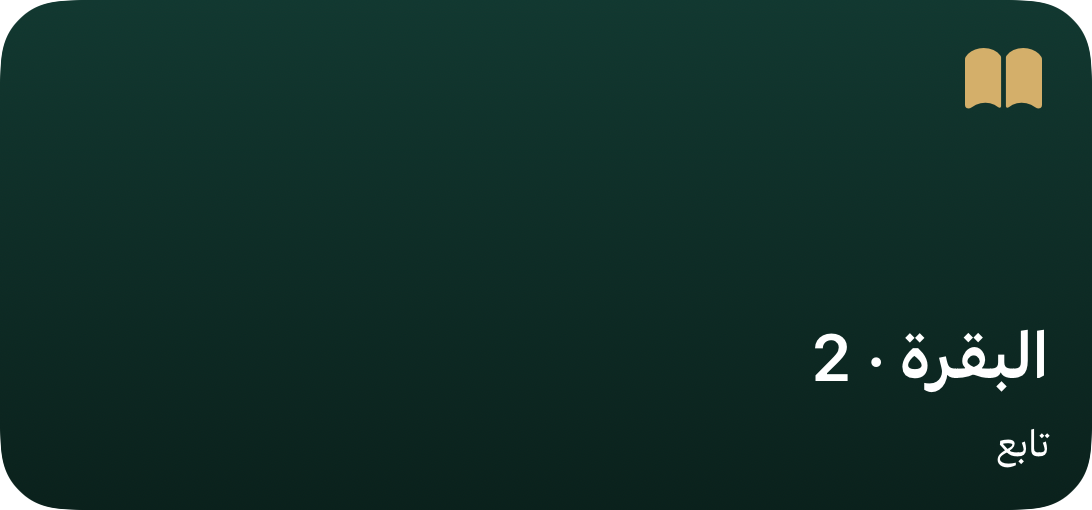
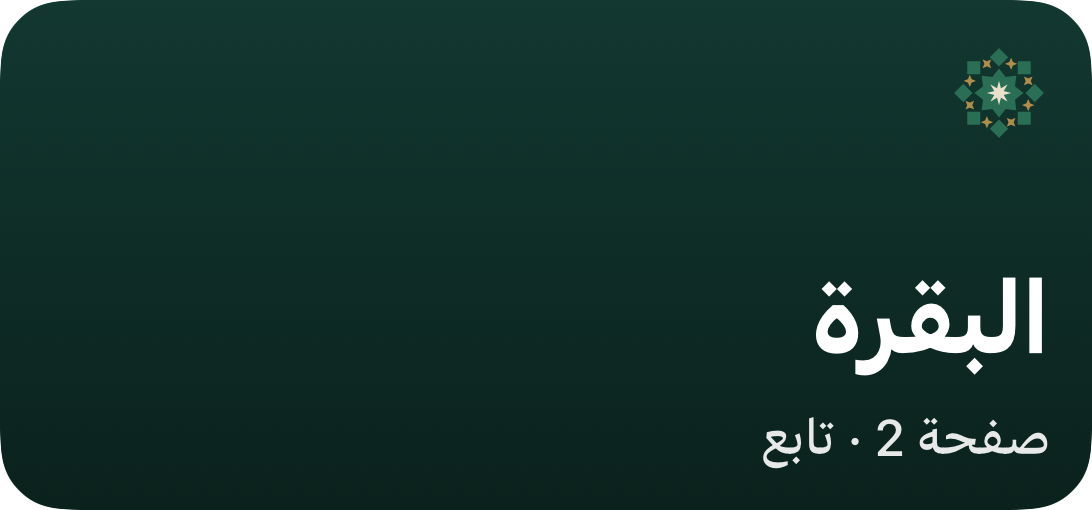
ويدجت المصحف: اسم السورة أكبر وأوضح، وزخرفة شعار التطبيق الصغيرة بدل أيقونة الكتاب (#3245)
Claude-Session: https://claude.ai/code/session_01RRn75XuQLnGpqkvSBJB31X

Changed region(s): [[0.7473, 0.5294, 0.9652, 0.7647], [0.685, 0.8235, 0.9652, 0.9118], [0.8718, 0.0882, 0.9652, 0.2647]]

diff --git a/artifacts/majalis/ios/App/PrayerWidget/SunnahWidgetLogoMark.swift b/artifacts/majalis/ios/App/PrayerWidget/SunnahWidgetLogoMark.swift
@@ -1,0 +1,45 @@
+import SwiftUI
+
+/// زخرفة شعار التطبيق (نفس زخرفة شاشة الدخولية، نسخة zellijDark الصغيرة) للويدجت.
+/// البيانات منسوخة من `SunnahNative/Intro/IntroLogoData.swift` (مولَّدة بـ gen-intro-shapes.py؛ الامتداد لا يستورد الحزمة).
+enum WidgetLogoData {
+    struct Layer { let color: UInt32; let polys: [[CGPoint]] }
+
+    static let layers: [Layer] = [
+        Layer(color: 0x2A6E55, polys: [[CGPoint(x: 100, y: 52), CGPoint(x: 113.01, y: 68.59), CGPoint(x: 133.94, y: 66.06), CGPoint(x: 131.41, y: 86.99), CGPoint(x: 148, y: 100), CGPoint(x: 131.41, y: 113.01), CGPoint(x: 133.94, y: 133.94), CGPoint(x: 113.01, y: 131.41), CGPoint(x: 100, y: 148), CGPoint(x: 86.99, y: 131.41), CGPoint(x: 66.06, y: 133.94), CGPoint(x: 68.59, y: 113.01), CGPoint(x: 52, y: 100), CGPoint(x: 68.59, y: 86.99), CGPoint(x: 66.06, y: 66.06), CGPoint(x: 86.99, y: 68.59)], [CGPoint(x: 188, y: 100), CGPoint(x: 170, y: 118), CGPoint(x: 152, y: 100), CGPoint(x: 170, y: 82)], [CGPoint(x: 162.23, y: 162.23), CGPoint(x: 136.77, y: 162.23), CGPoint(x: 136.77, y: 136.77), CGPoint(x: 162.23, y: 136.77)], [CGPoint(x: 100, y: 188), CGPoint(x: 82, y: 170), CGPoint(x: 100, y: 152), CGPoint(x: 118, y: 170)], [CGPoint(x: 37.77, y: 162.23), CGPoint(x: 37.77, y: 136.77), CGPoint(x: 63.23, y: 136.77), CGPoint(x: 63.23, y: 162.23)], [CGPoint(x: 12, y: 100), CGPoint(x: 30, y: 82), CGPoint(x: 48, y: 100), CGPoint(x: 30, y: 118)], [CGPoint(x: 37.77, y: 37.77), CGPoint(x: 63.23, y: 37.77), CGPoint(x: 63.23, y: 63.23), CGPoint(x: 37.77, y: 63.23)], [CGPoint(x: 100, y: 12), CGPoint(x: 118, y: 30), CGPoint(x: 100, y: 48), CGPoint(x: 82, y: 30)], [CGPoint(x: 162.23, y: 37.77), CGPoint(x: 162.23, y: 63.23), CGPoint(x: 136.77, y: 63.23), CGPoint(x: 136.77, y: 37.77)]]),
+        Layer(color: 0xB08D4A, polys: [[CGPoint(x: 157.28, y: 111.73), CGPoint(x: 160.82, y: 120.19), CGPoint(x: 169.28, y: 123.73), CGPoint(x: 160.82, y: 127.26), CGPoint(x: 157.28, y: 135.73), CGPoint(x: 153.74, y: 127.26), CGPoint(x: 145.28, y: 123.73), CGPoint(x: 153.74, y: 120.19)], [CGPoint(x: 132.21, y: 148.8), CGPoint(x: 128.73, y: 157.28), CGPoint(x: 132.21, y: 165.77), CGPoint(x: 123.73, y: 162.28), CGPoint(x: 115.24, y: 165.77), CGPoint(x: 118.73, y: 157.28), CGPoint(x: 115.24, y: 148.8), CGPoint(x: 123.73, y: 152.28)], [CGPoint(x: 88.27, y: 157.28), CGPoint(x: 79.81, y: 160.82), CGPoint(x: 76.27, y: 169.28), CGPoint(x: 72.74, y: 160.82), CGPoint(x: 64.27, y: 157.28), CGPoint(x: 72.74, y: 153.74), CGPoint(x: 76.27, y: 145.28), CGPoint(x: 79.81, y: 153.74)], [CGPoint(x: 51.2, y: 132.21), CGPoint(x: 42.72, y: 128.73), CGPoint(x: 34.23, y: 132.21), CGPoint(x: 37.72, y: 123.73), CGPoint(x: 34.23, y: 115.24), CGPoint(x: 42.72, y: 118.73), CGPoint(x: 51.2, y: 115.24), CGPoint(x: 47.72, y: 123.73)], [CGPoint(x: 42.72, y: 88.27), CGPoint(x: 39.18, y: 79.81), CGPoint(x: 30.72, y: 76.27), CGPoint(x: 39.18, y: 72.74), CGPoint(x: 42.72, y: 64.27), CGPoint(x: 46.26, y: 72.74), CGPoint(x: 54.72, y: 76.27), CGPoint(x: 46.26, y: 79.81)], [CGPoint(x: 67.79, y: 51.2), CGPoint(x: 71.27, y: 42.72), CGPoint(x: 67.79, y: 34.23), CGPoint(x: 76.27, y: 37.72), CGPoint(x: 84.76, y: 34.23), CGPoint(x: 81.27, y: 42.72), CGPoint(x: 84.76, y: 51.2), CGPoint(x: 76.27, y: 47.72)], [CGPoint(x: 111.73, y: 42.72), CGPoint(x: 120.19, y: 39.18), CGPoint(x: 123.73, y: 30.72), CGPoint(x: 127.26, y: 39.18), CGPoint(x: 135.73, y: 42.72), CGPoint(x: 127.26, y: 46.26), CGPoint(x: 123.73, y: 54.72), CGPoint(x: 120.19, y: 46.26)], [CGPoint(x: 148.8, y: 67.79), CGPoint(x: 157.28, y: 71.27), CGPoint(x: 165.77, y: 67.79), CGPoint(x: 162.28, y: 76.27), CGPoint(x: 165.77, y: 84.76), CGPoint(x: 157.28, y: 81.27), CGPoint(x: 148.8, y: 84.76), CGPoint(x: 152.28, y: 76.27)]]),
+        Layer(color: 0xE9E1CC, polys: [[CGPoint(x: 100, y: 76), CGPoint(x: 103.83, y: 90.76), CGPoint(x: 116.97, y: 83.03), CGPoint(x: 109.24, y: 96.17), CGPoint(x: 124, y: 100), CGPoint(x: 109.24, y: 103.83), CGPoint(x: 116.97, y: 116.97), CGPoint(x: 103.83, y: 109.24), CGPoint(x: 100, y: 124), CGPoint(x: 96.17, y: 109.24), CGPoint(x: 83.03, y: 116.97), CGPoint(x: 90.76, y: 103.83), CGPoint(x: 76, y: 100), CGPoint(x: 90.76, y: 96.17), CGPoint(x: 83.03, y: 83.03), CGPoint(x: 96.17, y: 90.76)]]),
+    ]
+}
+
+private struct WidgetLogoShape: Shape {
+    let points: [CGPoint]
+    func path(in rect: CGRect) -> Path {
+        var p = Path()
+        let s = min(rect.width, rect.height) / 200
+        let o = CGPoint(x: rect.midX - 100 * s, y: rect.midY - 100 * s)
+        for (i, pt) in points.enumerated() {
+            let q = CGPoint(x: o.x + pt.x * s, y: o.y + pt.y * s)
+            i == 0 ? p.move(to: q) : p.addLine(to: q)
+        }
+        p.closeSubpath()
+        return p
+    }
+}
+
+/// شعار/زخرفة سُنّة صغيرة للويدجت (زخرفية فقط: مخفية عن VoiceOver).
+struct SunnahWidgetLogoMark: View {
+    var size: CGFloat = 34
+
+    var body: some View {
+        ZStack {
+            ForEach(Array(WidgetLogoData.layers.enumerated()), id: \.offset) { _, layer in
+                ForEach(Array(layer.polys.enumerated()), id: \.offset) { _, pts in
+                    WidgetLogoShape(points: pts).fill(Color(.sRGB, red: Double((layer.color >> 16) & 0xFF) / 255, green: Double((layer.color >> 8) & 0xFF) / 255, blue: Double(layer.color & 0xFF) / 255))
+                }
+            }
+        }
+        .frame(width: size, height: size)
+        .accessibilityHidden(true)
+    }
+}

diff --git a/artifacts/majalis/ios/App/PrayerWidget/SunnahWidgetPlatform.swift b/artifacts/majalis/ios/App/PrayerWidget/SunnahWidgetPlatform.swift
@@ -661,41 +661,21 @@ struct SunnahMushafPositionCard: View {
 
     var body: some View {
         VStack(alignment: .leading, spacing: 8) {
-            Image(systemName: symbol)
-                .font(WidgetType.icon(22))
-                .foregroundStyle(SunnahBrandColors.gold)
-                .widgetAccentable()
-                .accessibilityHidden(true)
+            SunnahWidgetLogoMark(size: 34)
             Spacer(minLength: 0)
-            ViewThatFits(in: .horizontal) {
-                Text(oneLine)
-                    .font(WidgetType.primary(22))
-                    .lineLimit(1)
-                    .fixedSize(horizontal: true, vertical: false)
-                VStack(alignment: .leading, spacing: 2) {
-                    if let surah {
-                        Text(surah)
-                            .font(WidgetType.primary(20))
-                            .lineLimit(2)
-                            .minimumScaleFactor(CGFloat(WidgetTextBudget.minScale))
-                    }
-                    Text(numberText)
-                        .font(WidgetType.primary(20))
-                }
-            }
-            Text(cue)
-                .font(WidgetType.secondary(13))
+            Text(surah ?? "المصحف")
+                .font(.system(size: 34, weight: .bold))
+                .lineLimit(1)
+                .minimumScaleFactor(0.6)
+            Text("صفحة \(numberText) · \(cue)")
+                .font(.system(size: 17, weight: .medium))
                 .lineLimit(1)
                 .minimumScaleFactor(CGFloat(WidgetTextBudget.minScale))
+                .opacity(0.9)
         }
         .frame(maxWidth: .infinity, maxHeight: .infinity, alignment: .leading)
         .accessibilityElement(children: .ignore)
         .accessibilityLabel("\(surah ?? "المصحف") \(numberText) \(cue)")
-    }
-
-    private var oneLine: String {
-        if let surah { return "\(surah) · \(numberText)" }
-        return numberText
     }
 }
 
